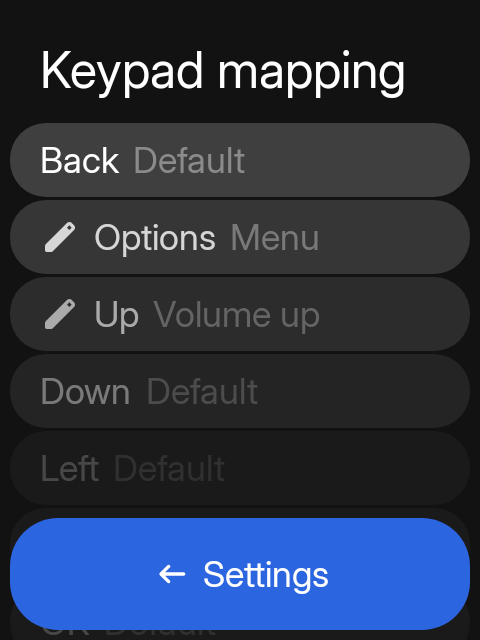
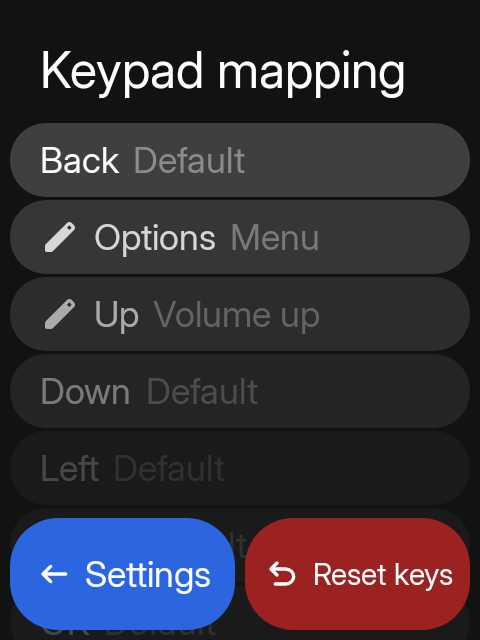
feat(ui): keep navigation in rows and reset in the bar
Keypad mapping shows Reset keys in the bar only while custom bindings exist, and no longer duplicates it in Options. Sideport's App info becomes a row with a right arrow; Options keeps only Remove/Uninstall. Apply the same rule to Mail Account, Sideplay Settings, Sideweather Locations, Compass Bookmarks, and Sideplay Now playing, and make Arrange apps' Reset a conditional bar action. Update the UI-pattern docs and screenshots.

Changed region(s): [[0.1562, 0.8125, 1.0, 1.0], [0.0938, 0.875, 0.125, 0.9062]]

diff --git a/app/src/main/java/hrln/interactive/sidekit/apps/spotify/SpotifyLibraryScreens.kt b/app/src/main/java/hrln/interactive/sidekit/apps/spotify/SpotifyLibraryScreens.kt
@@ -56,10 +56,7 @@ fun SideplayHomeScreen(
     SidekitScaffold(
         title = "Sideplay",
         actions = bar,
-        options = listOf(
-            SideAction("refresh", "Refresh", SidekitIcon.Undo, onClick = onRefresh),
-            SideAction("settings", "Settings", SidekitIcon.Settings, onClick = onSettings)
-        )
+        options = listOf(SideAction("refresh", "Refresh", SidekitIcon.Undo, onClick = onRefresh))
     ) { padding ->
         val listState = rememberLazyListState()
         val swipes = rememberSwipeRevealGroup()
@@ -89,6 +86,9 @@ fun SideplayHomeScreen(
                         )
                     }
                 }
+            }
+            item(key = "settings") {
+                SidekitItem("Settings", Modifier.listFade(listState, recent.size + 2), showLinkArrow = true, onClick = onSettings)
             }
         }
     }
@@ -208,9 +208,7 @@ fun CollectionScreen(
                 onClick = onSave
             )
         )
-        if (collection.artistId != null) add(SideAction("artist", "Artist", SidekitIcon.Artist, onClick = onArtist))
         collection.items.firstOrNull()?.let { add(SideAction("queue", "Add to queue", SidekitIcon.QueueMusic, onClick = onQueue)) }
-        add(SideAction("nowPlaying", "Go to now playing", SidekitIcon.MusicNote2, onClick = onNowPlaying))
     }
     SidekitScaffold(title = collection.title, actions = actions, options = options) { padding ->
         val listState = rememberLazyListState()
@@ -242,11 +240,14 @@ fun CollectionScreen(
                     maxLines = 1
                 )
             }
+            item(key = "nowPlaying") {
+                SidekitItem("Now playing", Modifier.listFade(listState, 2), showLinkArrow = true, onClick = onNowPlaying)
+            }
             itemsIndexed(collection.items, key = { index, item -> "$index:${item.id}" }) { index, item ->
                 SidekitSwipeRow(
                     key = item.id,
                     group = swipes,
-                    modifier = Modifier.listFade(listState, index + 2),
+                    modifier = Modifier.listFade(listState, index + 3),
                     action = queueAction(item, onQueueItem)
                 ) {
                     SpotifyMediaRow(
@@ -295,8 +296,7 @@ fun ArtistScreen(
         title = artist.name,
         actions = actions,
         options = listOf(
-            SideAction("follow", if (followed) "Following" else "Follow", tone = if (followed) ActionTone.Secondary else ActionTone.Primary, onClick = onFollow),
-            SideAction("nowPlaying", "Go to now playing", SidekitIcon.MusicNote2, onClick = onNowPlaying)
+            SideAction("follow", if (followed) "Following" else "Follow", tone = if (followed) ActionTone.Secondary else ActionTone.Primary, onClick = onFollow)
         )
     ) { padding ->
         val listState = rememberLazyListState()
@@ -308,12 +308,15 @@ fun ArtistScreen(
                     ArtworkTile(artist.artRes, "${artist.name} artwork", Modifier.weight(1f), artist.artUrl)
                 }
             }
+            item(key = "nowPlaying") {
+                SidekitItem("Now playing", Modifier.listFade(listState, 1), showLinkArrow = true, onClick = onNowPlaying)
+            }
             item(key = "topLabel") { SectionLabel("Top tracks") }
             itemsIndexed(tracks, key = { _, track -> track.id }) { index, track ->
                 SidekitSwipeRow(
                     key = track.id,
                     group = swipes,
-                    modifier = Modifier.listFade(listState, index + 2),
+                    modifier = Modifier.listFade(listState, index + 3),
                     action = queueAction(track, onQueue)
                 ) {
                     SpotifyMediaRow(track, Modifier, secondary = track.artist, onClick = { onTrack(track) })
@@ -328,7 +331,7 @@ fun ArtistScreen(
                     album.artRes,
                     album.title,
                     "${album.year}" + if (album.trackCount > 0) " · ${album.trackCount} tracks" else "",
-                    Modifier.listFade(listState, index + tracks.size + 3),
+                    Modifier.listFade(listState, index + tracks.size + 4),
                     artUrl = album.artUrl
                 ) { onAlbum(album) }
             }

diff --git a/app/src/main/java/hrln/interactive/sidekit/apps/mail/MailGraph.kt b/app/src/main/java/hrln/interactive/sidekit/apps/mail/MailGraph.kt
@@ -81,12 +81,9 @@ fun NavGraphBuilder.mailGraph(nav: NavHostController) {
             SidekitScaffold(
                 title = "Mail",
                 actions = actions,
-                options = listOf(
-                    SideAction("refresh", "Refresh inbox") { vm.refresh() },
-                    SideAction("account", "Account") { nav.navigate("$ROOT/account") }
-                )
+                options = listOf(SideAction("refresh", "Refresh inbox") { vm.refresh() })
             ) { padding ->
-                MessageList(padding, messages, null, vm::delete) { nav.navigate(if (it.folder == MailFolder.Inbox || it.folder == MailFolder.Sent) "$ROOT/read/${it.id}" else "$ROOT/compose?id=${it.id}") }
+                MessageList(padding, messages, null, vm::delete, onAccount = { nav.navigate("$ROOT/account") }) { nav.navigate(if (it.folder == MailFolder.Inbox || it.folder == MailFolder.Sent) "$ROOT/read/${it.id}" else "$ROOT/compose?id=${it.id}") }
             }
         }
         composable("$ROOT/account") {
@@ -218,6 +215,7 @@ private fun MessageList(
     messages: List<MailMessage>?,
     folder: MailFolder?,
     onDelete: (Long) -> Unit,
+    onAccount: (() -> Unit)? = null,
     onOpen: (MailMessage) -> Unit
 ) {
     val shown = messages.orEmpty().filter { folder == null || it.folder == folder }
@@ -229,13 +227,18 @@ private fun MessageList(
                 SidekitText("Inbox cache · refresh to check your server. Swipe deletes the cached copy only.", style = SidekitTheme.typography.caption, color = SidekitTheme.colors.surfaceA6, maxLines = Int.MAX_VALUE)
             }
         }
+        if (onAccount != null) {
+            item(key = "account") {
+                SidekitItem("Account", Modifier.listFade(state, 1), showLinkArrow = true, onClick = onAccount)
+            }
+        }
         if (messages != null && shown.isEmpty()) {
             item(key = "empty") {
-                SidekitItem(if (folder == null) "No local messages" else "No ${folder.label.lowercase()}", Modifier.listFade(state, 1), secondary = "Compose creates a draft on this phone")
+                SidekitItem(if (folder == null) "No local messages" else "No ${folder.label.lowercase()}", Modifier.listFade(state, 2), secondary = "Compose creates a draft on this phone")
             }
         }
         itemsIndexed(shown, key = { _, it -> it.id }) { index, message ->
-            SidekitSwipeRow(key = message.id, group = swipe, onDelete = { onDelete(message.id) }, modifier = Modifier.animateItem().listFade(state, index + 1), deleteLabel = "Delete message") {
+            SidekitSwipeRow(key = message.id, group = swipe, onDelete = { onDelete(message.id) }, modifier = Modifier.animateItem().listFade(state, index + 2), deleteLabel = "Delete message") {
                 SidekitItem((if (message.folder == MailFolder.Inbox) message.sender else message.to).ifEmpty { "No recipient" }, secondary = "${message.folder.label} · ${message.subject.ifEmpty { "No subject" }}", onClick = { onOpen(message) })
             }
         }

diff --git a/app/src/test/java/hrln/interactive/sidekit/apps/sideport/SideportHubUiTest.kt b/app/src/test/java/hrln/interactive/sidekit/apps/sideport/SideportHubUiTest.kt
@@ -22,7 +22,7 @@ import org.junit.runner.RunWith
 import org.robolectric.annotation.Config
 import org.robolectric.annotation.GraphicsMode
 
-/** A ported app's hub: the app header, its chats and media, and Remove/Uninstall in the body. */
+/** A ported app's hub: the app header, its chats and media, and Remove/Uninstall in Options. */
 @RunWith(AndroidJUnit4::class)
 @Config(sdk = [31])
 @GraphicsMode(GraphicsMode.Mode.NATIVE)
@@ -67,14 +67,17 @@ class SideportHubUiTest {
 
     private fun installed() = SideportHubUiState(app, version = "2.24.6.78", chats = listOf(chat))
 
-    @Test fun `hub shows the app and its version, with actions in Options`() {
+    @Test fun `hub shows the app, its version and App info as a row`() {
         show(installed())
         compose.onRoot().captureRoboImage("screenshots/sideport_hub.png")
         compose.onNodeWithText("Version 2.24.6.78").assertExists()
         compose.onNodeWithText("com.example.chat").assertExists()
+        compose.onNodeWithText("App info").assertExists()
         compose.onNodeWithText("Open as").assertExists()
         compose.onNodeWithText("Remove from Sideport").assertDoesNotExist()
         compose.onNodeWithText("Uninstall app").assertDoesNotExist()
+        compose.onNodeWithText("App info").performClick()
+        assertEquals(listOf("info"), calls)
     }
 
     @Test fun `a message replaces the bar and dismisses on tap`() {
@@ -127,20 +130,19 @@ class SideportHubUiTest {
         compose.onNodeWithText("Cancel").assertDoesNotExist()
     }
 
-    @Test fun `Options holds the app's secondary actions`() {
+    @Test fun `Options holds only the destructive actions`() {
         show(installed())
         compose.runOnIdle { chrome.toggleOptions() }
-        compose.onNodeWithText("App info").assertExists()
+        // App info stays a single row; Options adds only the destructive actions.
+        compose.onAllNodesWithText("App info").assertCountEquals(1)
         compose.onNodeWithText("Remove from Sideport").assertExists()
         compose.onNodeWithText("Uninstall app").assertExists()
-        compose.onNodeWithText("App info").performClick()
-        assertEquals(listOf("info"), calls)
     }
 
-    @Test fun `an app that is gone has no App info or Uninstall`() {
+    @Test fun `an app that is gone has no App info row or Uninstall`() {
         show(SideportHubUiState(app, version = null))
-        compose.runOnIdle { chrome.toggleOptions() }
         compose.onNodeWithText("App info").assertDoesNotExist()
+        compose.runOnIdle { chrome.toggleOptions() }
         compose.onNodeWithText("Uninstall app").assertDoesNotExist()
         compose.onNodeWithText("Remove from Sideport").assertExists()
     }

diff --git a/app/src/main/java/hrln/interactive/sidekit/apps/sideweather/SideweatherGraph.kt b/app/src/main/java/hrln/interactive/sidekit/apps/sideweather/SideweatherGraph.kt
@@ -69,7 +69,7 @@ fun NavGraphBuilder.sideweatherGraph(nav: NavHostController) {
                     nav.navigate("$root/locations") { launchSingleTop = true }
                     Unit
                 }
-                val options = listOf(SideAction("locations", "Locations", onClick = locations), SideAction("units", if (imperial) "Use °C" else "Use °F") { vm.repository.settings.edit { it.copy(fahrenheit = !it.fahrenheit) } })
+                val options = listOf(SideAction("units", if (imperial) "Use °C" else "Use °F") { vm.repository.settings.edit { it.copy(fahrenheit = !it.fahrenheit) } })
                 when (page) {
                     "search" -> PlaceSearch(back) {
                         vm.repository.select(it)
@@ -113,7 +113,7 @@ fun NavGraphBuilder.sideweatherGraph(nav: NavHostController) {
                         }
                     }
 
-                    "home" -> SideweatherHomeScreen(forecast?.let { f -> place?.let { f.current(it, imperial) } } ?: CurrentConditions(place?.name ?: "Choose a location", "—", "", ""), forecast?.summary(imperial).orEmpty() + WeatherRow(error ?: status, ""), { nav.navigate("$root/hourly") }, { nav.navigate("$root/five-day") }, options)
+                    "home" -> SideweatherHomeScreen(forecast?.let { f -> place?.let { f.current(it, imperial) } } ?: CurrentConditions(place?.name ?: "Choose a location", "—", "", ""), forecast?.summary(imperial).orEmpty() + WeatherRow(error ?: status, ""), { nav.navigate("$root/hourly") }, { nav.navigate("$root/five-day") }, locations, options)
 
                     else -> ForecastScreen(if (page == "hourly") "Hourly forecast" else "5-day forecast", (if (page == "hourly") forecast?.hourly(imperial) else forecast?.daily(imperial)).orEmpty() + WeatherRow(status, ""), back, locations)
                 }

diff --git a/app/src/main/java/hrln/interactive/sidekit/apps/settings/KeypadMappingScreen.kt b/app/src/main/java/hrln/interactive/sidekit/apps/settings/KeypadMappingScreen.kt
@@ -74,11 +74,20 @@ internal fun KeypadMappingScreen(back: () -> Unit, learn: (KeypadModule, KeypadC
     fun nextLayout() {
         custom?.let { keypad.useCustomMapping(KeypadModule.entries[(it.ordinal + 1) % KeypadModule.entries.size]) }
     }
-    val options = buildList {
-        if (custom != null && bindings.isNotEmpty()) add(SideAction("reset", "Reset keys", SidekitIcon.Undo, tone = ActionTone.Destructive) { mapper.resetAll(custom) })
-        if (custom != null) add(SideAction("automatic", "Use automatic", tone = ActionTone.Muted) { keypad.useCustomMapping(null) })
+    // Reset is a bar action only when there is something to reset, so it never sits around as a
+    // dead option. Switching back to automatic stays in Options: it is a mode change, not a reset.
+    val actions = buildList {
+        add(SideAction.back("back", "Settings", back))
+        if (custom != null && bindings.isNotEmpty()) {
+            add(SideAction("reset", "Reset keys", SidekitIcon.Undo, tone = ActionTone.Destructive) { mapper.resetAll(custom) })
+        }
     }
-    SidekitScaffold("Keypad mapping", actions = listOf(SideAction.back("back", "Settings", back)), options = options) { padding ->
+    val options = if (custom != null) {
+        listOf(SideAction("automatic", "Use automatic", tone = ActionTone.Muted) { keypad.useCustomMapping(null) })
+    } else {
+        emptyList()
+    }
+    SidekitScaffold("Keypad mapping", actions = actions, options = options) { padding ->
         SidekitList(padding, state = list) {
             item {
                 SidekitItem("Mapping", Modifier.height(CompactRowHeight).listFade(list, 0), secondary = if (custom == null) "Automatic" else "Custom", onClick = ::toggle)

diff --git a/app/src/main/java/hrln/interactive/sidekit/apps/sideport/SideportGraph.kt b/app/src/main/java/hrln/interactive/sidekit/apps/sideport/SideportGraph.kt
@@ -388,9 +388,8 @@ internal fun SideportHubContent(
         SideAction.square("back", SidekitIcon.ArrowLeftAlt, "Back", onBack, tone = ActionTone.Muted, motion = ActionMotion.Back),
         SideAction.forward("open", "Open", onOpen)
     )
-    // Secondary actions live in Options; destructive ones still confirm in the bar.
+    // Navigation belongs in the list; Options holds only the destructive actions.
     val options = buildList {
-        if (state.version != null) add(SideAction("info", "App info", SidekitIcon.Settings) { onInfo() })
         add(SideAction("remove", "Remove from Sideport", SidekitIcon.DeleteForever, tone = ActionTone.Destructive) { onAsk(HubRemoval.Remove) })
         if (state.version != null) add(SideAction("uninstall", "Uninstall app", SidekitIcon.DeleteForever, tone = ActionTone.Destructive) { onAsk(HubRemoval.Uninstall) })
     }
@@ -401,6 +400,10 @@ internal fun SideportHubContent(
             val header = index++
             item(key = "header") { SideportHeader(app, state.version, Modifier.listFade(list, header)) }
             if (state.version != null) {
+                val info = index++
+                item(key = "info") {
+                    SidekitItem("App info", Modifier.height(CompactRowHeight).listFade(list, info), showLinkArrow = true, onClick = onInfo)
+                }
                 val mode = index++
                 item(key = "mode") {
                     SidekitItem(

diff --git a/app/src/main/java/hrln/interactive/sidekit/home/HomeArranger.kt b/app/src/main/java/hrln/interactive/sidekit/home/HomeArranger.kt
@@ -26,8 +26,14 @@ class HomeArranger(private val home: HomePreferences, known: Iterable<String>) {
     /** Ported (or otherwise freshly-seen) ids that aren't part of the built-in default list. */
     private val appendedDefaults: List<String> = knownIds.filter { it !in builtinIds }
 
-    var order by mutableStateOf(home.homeOrderFor(knownIds))
+    private val initialOrder = home.homeOrderFor(knownIds)
+    private val defaultOrder = SubApp.entries.map { it.visibilityId() }.filter { it in knownIds } + appendedDefaults
+
+    var order by mutableStateOf(initialOrder)
         private set
+
+    /** True when the buffer is already the built-in default, so Reset would do nothing. */
+    val isDefault: Boolean get() = order == defaultOrder
 
     /** The app currently selected for reordering, or null when not in selection mode. */
     var selected by mutableStateOf<String?>(null)
@@ -51,7 +57,10 @@ class HomeArranger(private val home: HomePreferences, known: Iterable<String>) {
         if (index < 0) return
         val target = (index + delta).coerceIn(0, order.lastIndex)
         if (target == index) return
-        order = order.toMutableList().apply { removeAt(index); add(target, id) }
+        order = order.toMutableList().apply {
+            removeAt(index)
+            add(target, id)
+        }
     }
 
     /** Moves the currently selected app by [delta]; no-op when nothing is selected. */

diff --git a/app/src/main/java/hrln/interactive/sidekit/apps/sideweather/SideweatherScreens.kt b/app/src/main/java/hrln/interactive/sidekit/apps/sideweather/SideweatherScreens.kt
@@ -44,6 +44,7 @@ fun SideweatherHomeScreen(
     summary: List<WeatherRow>,
     onHourly: () -> Unit,
     onFiveDay: () -> Unit,
+    onLocations: () -> Unit,
     options: List<SideAction> = emptyList()
 ) {
     SidekitScaffold(
@@ -55,6 +56,9 @@ fun SideweatherHomeScreen(
         SidekitList(padding, state = list) {
             item { Box(Modifier.listFade(list, 0)) { ConditionsCard(current) } }
             itemsIndexed(summary) { i, row -> SidekitItem(title = row.label, secondary = row.detail, modifier = Modifier.listFade(list, i + 1)) }
+            item(key = "locations") {
+                SidekitItem("Locations", Modifier.listFade(list, summary.size + 1), showLinkArrow = true, onClick = onLocations)
+            }
         }
     }
 }
@@ -122,7 +126,7 @@ fun LocationsScreen(locations: List<WeatherRow>, hint: String, onBack: () -> Uni
 @SidephonePreview
 @Composable
 private fun SideweatherHomePreview() = SidekitPreviewFrame {
-    SideweatherHomeScreen(SideweatherSampleData.current, SideweatherSampleData.summary, {}, {})
+    SideweatherHomeScreen(SideweatherSampleData.current, SideweatherSampleData.summary, {}, {}, {})
 }
 
 @SidephonePreview

diff --git a/app/src/main/java/hrln/interactive/sidekit/apps/compass/CompassLive.kt b/app/src/main/java/hrln/interactive/sidekit/apps/compass/CompassLive.kt
@@ -74,7 +74,7 @@ fun LiveCompass(onBookmarks: () -> Unit) {
                 }
             }
         ),
-        options = listOf(location, SideAction("bookmarks", "Bookmarks", onClick = onBookmarks))
+        options = listOf(location)
     ) { padding ->
         SidekitList(padding, state = list) {
             item { Box(Modifier.fillMaxWidth().height(278.dp).listFade(list, 0), contentAlignment = androidx.compose.ui.Alignment.TopCenter) { CompassDial({ sensor.angle.floatValue }, Modifier.padding(top = 5.dp)) } }
@@ -89,6 +89,9 @@ fun LiveCompass(onBookmarks: () -> Unit) {
             }
             item { OutdoorInfo(error ?: if (lowAccuracy) "Low accuracy: move phone in a figure eight, away from metal" else status, modifier = Modifier.listFade(list, 2)) }
             item { OutdoorInfo("Location is optional", secondary = "Options → Allow attaches an approximate location to saved headings", modifier = Modifier.listFade(list, 3)) }
+            item(key = "bookmarks") {
+                SidekitItem("Bookmarks", Modifier.listFade(list, 4), showLinkArrow = true, onClick = onBookmarks)
+            }
         }
     }
 }

diff --git a/app/src/main/java/hrln/interactive/sidekit/apps/settings/ArrangeHomeScreen.kt b/app/src/main/java/hrln/interactive/sidekit/apps/settings/ArrangeHomeScreen.kt
@@ -119,13 +119,14 @@ internal fun ArrangeHomeScreen(back: () -> Unit) {
                 false
             }
         },
-        actions = listOf(
-            SideAction.back("back", "Settings", ::cancel),
-            SideAction.forward("done", "Done", ::done, icon = SidekitIcon.Check)
-        ),
-        options = listOf(
-            SideAction("reset", "Reset", icon = SidekitIcon.Undo, tone = ActionTone.Muted, onClick = { arranger.reset() })
-        )
+        actions = buildList {
+            add(SideAction.back("back", "Settings", ::cancel))
+            // Reset is only useful while the buffer differs from the built-in default.
+            if (!arranger.isDefault) {
+                add(SideAction("reset", "Reset", icon = SidekitIcon.Undo, tone = ActionTone.Muted, onClick = { arranger.reset() }))
+            }
+            add(SideAction.forward("done", "Done", ::done, icon = SidekitIcon.Check))
+        }
     ) { padding ->
         SidekitList(padding, state = list) {
             item {

diff --git a/app/src/test/java/hrln/interactive/sidekit/apps/settings/KeypadMappingUiTest.kt b/app/src/test/java/hrln/interactive/sidekit/apps/settings/KeypadMappingUiTest.kt
@@ -94,7 +94,7 @@ class KeypadMappingUiTest {
         compose.mainClock.advanceTimeBy(1000)
         compose.onNodeWithText("Volume up").assertIsDisplayed()
         compose.onRoot().captureRoboImage("screenshots/keypad_mapping_editor_keys.png")
-        compose.runOnIdle { chrome.toggleOptions() }
+        // Reset is in the bar, not Options, while there are custom bindings.
         compose.onNodeWithText("Reset keys").performClick()
         compose.runOnIdle { assertTrue(keypad.mapper.bindings(KeypadModule.T9).isEmpty()) }
         compose.onNodeWithText("Menu").assertDoesNotExist()

diff --git a/app/src/test/java/hrln/interactive/sidekit/apps/sideweather/SideweatherScreenshotTest.kt b/app/src/test/java/hrln/interactive/sidekit/apps/sideweather/SideweatherScreenshotTest.kt
@@ -24,7 +24,7 @@ class SideweatherScreenshotTest {
 
     private val data = SideweatherSampleData
 
-    @Test fun home() = shoot("sideweather_94-322") { SideweatherHomeScreen(data.current, data.summary, {}, {}) }
+    @Test fun home() = shoot("sideweather_94-322") { SideweatherHomeScreen(data.current, data.summary, {}, {}, {}) }
 
     @Test fun hourly() = shoot("sideweather_hourly_94-385") { ForecastScreen("Hourly forecast", data.hourly, {}, {}) }
 
